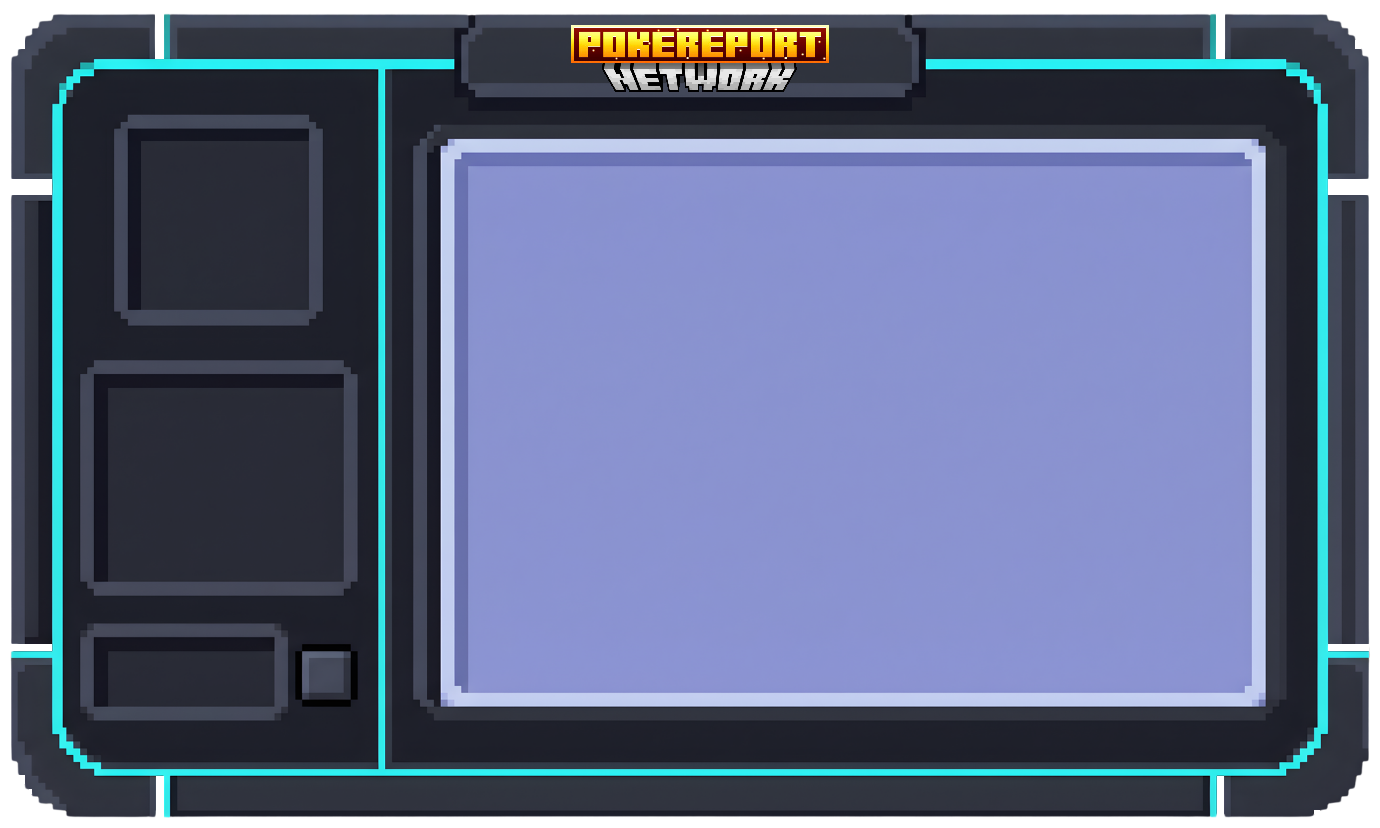
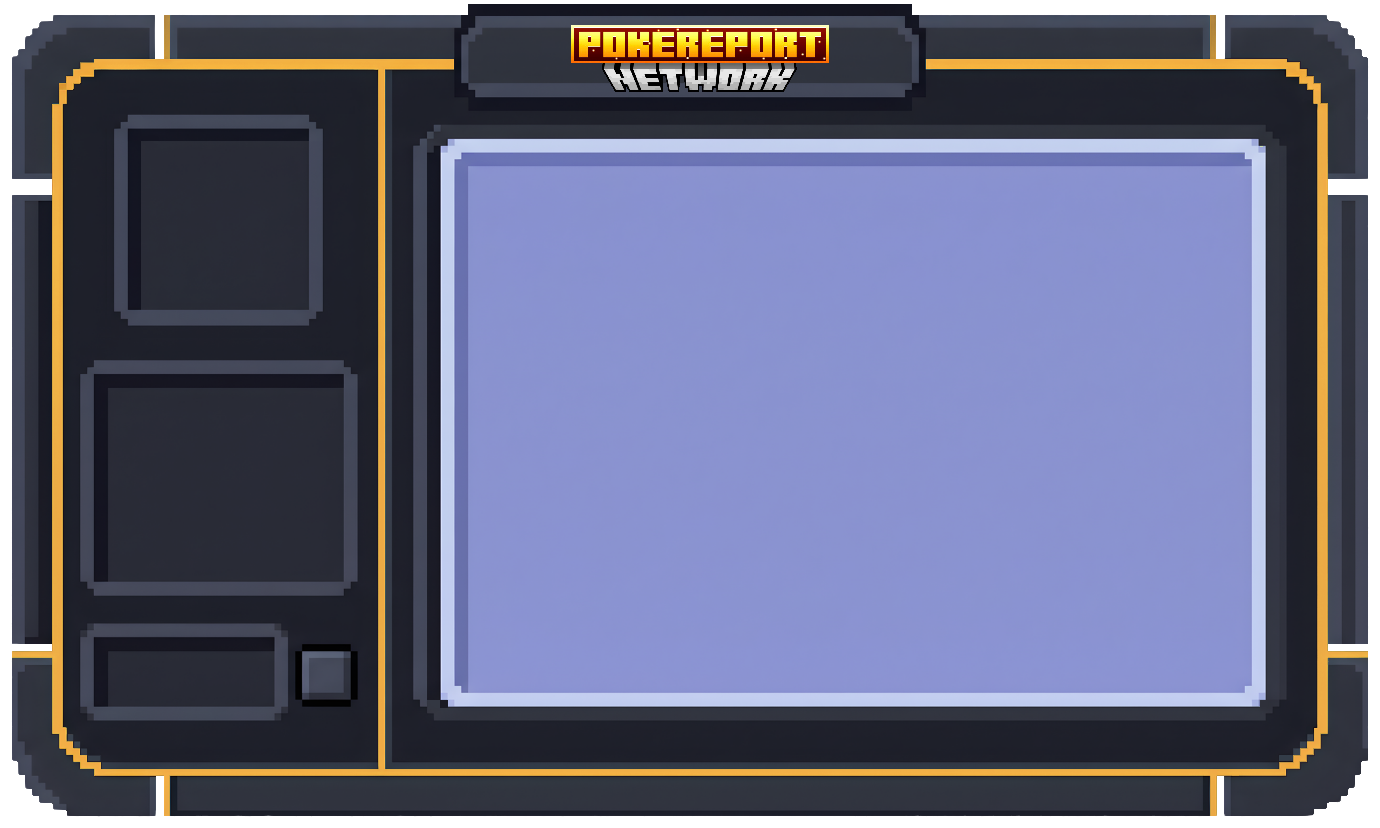
Chasis v3: el acento pasa de cian a naranja
Comparados los dos pixel a pixel, la geometria es IDENTICA: pantalla en
x 454-1251 / y 152-692, y las tres ranuras clavadas. Lo unico que cambia
es el color del acento.

    cian     33.661 px  ->      6 px
    naranja   1.615 px  -> 37.400 px

Asi que la rejilla, los iconos, los nombres, la cara y la barra de
botones no se tocan: siguen cayendo donde caian.

Y UNA COSA QUE NO SE VE HASTA MIRARLA. El borde de "raton encima" de las
celdas era CIAN, y lo era porque el chasis lo era. Con el v3 no queda ni
un pixel cian en toda la pantalla, asi que ese resalte se quedaba
huerfano, como sacado de otra interfaz.

Pasa a naranja, MUESTREADO del propio arte y no elegido a ojo: es el
tono mas frecuente de sus lineas de acento (0xFFF3B146). Si el chasis
vuelve a cambiar de color, el numero se saca igual.

Changed region(s): [[0.0, 0.0302, 0.9971, 0.9964], [0.3116, 0.0, 0.6855, 0.0302]]

diff --git a/mod/src/client/java/net/pokereport/luna/client/pokepad/PokePadScreen.java b/mod/src/client/java/net/pokereport/luna/client/pokepad/PokePadScreen.java
@@ -30,7 +30,17 @@ public class PokePadScreen extends Screen {
     private static final int CELDA_FONDO = 0xFF7A83C8;
     private static final int CELDA_BORDE = 0xFFC8D2F0;
     private static final int CELDA_ENCIMA = 0xFF9AA3E8;
-    private static final int BORDE_ENCIMA = 0xFF16F2E6;
+
+    // ⚠ EL BORDE DE "RATON ENCIMA" SIGUE AL ACENTO DEL CHASIS.
+    //
+    // Era cian, y lo era porque el chasis lo era. En el v3 el acento pasa a
+    // naranja --a juego con el logo-- y no queda NI UN PIXEL cian en toda la
+    // pantalla: un resalte cian se quedaba huerfano, como de otra interfaz.
+    //
+    // El valor esta MUESTREADO del propio arte, no elegido a ojo: es el naranja
+    // mas frecuente de sus lineas de acento. Si el chasis vuelve a cambiar de
+    // color, este numero se saca igual y se cambia aqui.
+    private static final int BORDE_ENCIMA = 0xFFF3B146;
 
     /**
      * El chasis en PIXELES DEL ARTE. Todo lo demás se mide en estas unidades.
